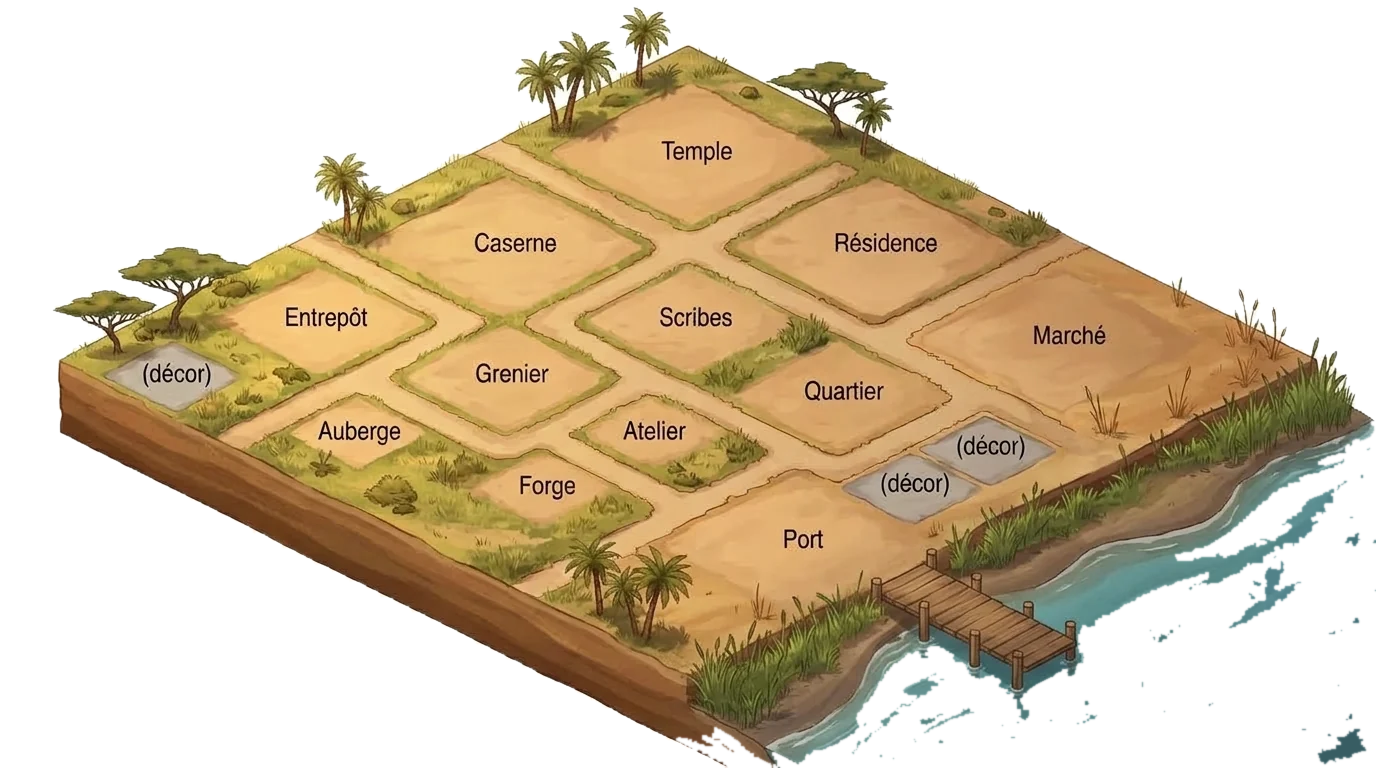
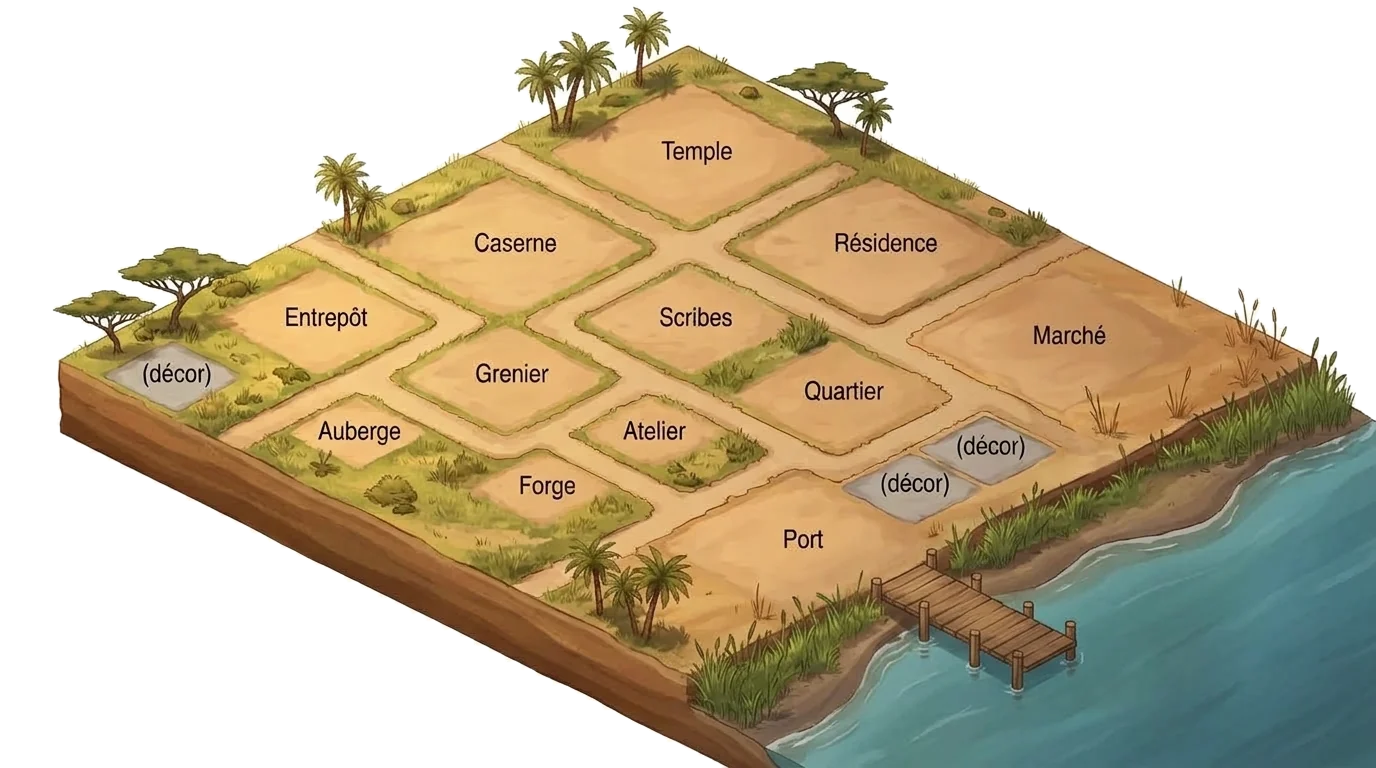
fix(ville): les lots laissent respirer les chemins, le fleuve n'est plus rongé
Lots à 86 % de la clairière au lieu de 99 %. Le détourage du fond blanc ne
part plus que de pixels blancs : il entamait l'eau du fleuve.

Changed region(s): [[0.4688, 0.5625, 1.0, 1.0]]

diff --git a/app/src/Game/EmplacementsDeLaVille.php b/app/src/Game/EmplacementsDeLaVille.php
@@ -36,10 +36,11 @@ final class EmplacementsDeLaVille
     public const array LARGEUR_DES_LOTS = ['l' => 305, 'm' => 222, 's' => 148];
 
     /**
-     * Le sprite est un peu plus large que la clairière : son muret en recouvre le
-     * bord. Un sprite plus grand mordrait sur les chemins voisins.
+     * Part de la clairière que le lot du sprite occupe. **Moins que 1** : la clairière
+     * du plan est mesurée au bord de ses chemins, et un lot à sa pleine largeur
+     * collait ses voisins et mangeait les chemins — la ville ne respirait plus.
      */
-    public const float FACTEUR_DE_LARGEUR = 0.99;
+    public const float FACTEUR_DE_LARGEUR = 0.86;
 
     /**
      * Les planches livrent quatre paliers de sprite ; les bâtiments montent au
